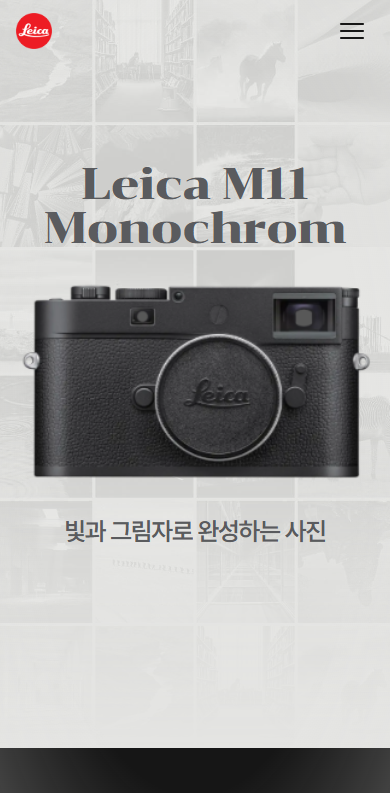
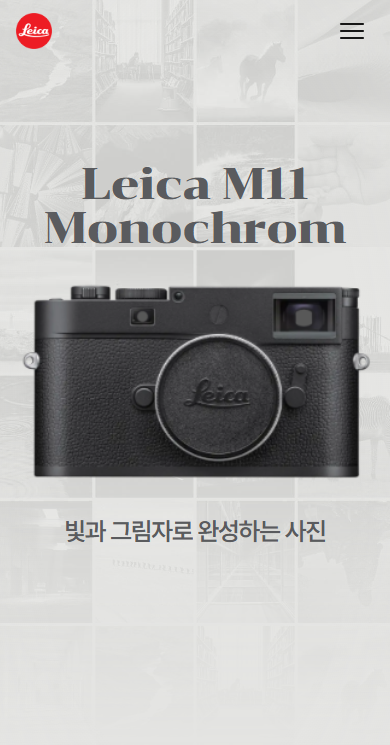
README 캡처 이미지 재교체

diff --git a/README.md b/README.md
@@ -22,8 +22,8 @@
 
 <table>
   <tr>
-    <td width="66%"><img src="docs/pc-features.png?v=2" alt="PC 특징 섹션 — 원형 3D 슬라이드"></td>
-    <td width="34%"><img src="docs/mobile-hero.png?v=2" alt="모바일 첫 화면 — 사진 바둑판 위 카메라"></td>
+    <td width="66%"><img src="docs/pc-features.png?v=3" alt="PC 특징 섹션 — 원형 3D 슬라이드"></td>
+    <td width="34%"><img src="docs/mobile-hero.png?v=3" alt="모바일 첫 화면 — 사진 바둑판 위 카메라"></td>
   </tr>
   <tr>
     <td align="center">PC · 특징 섹션</td>
